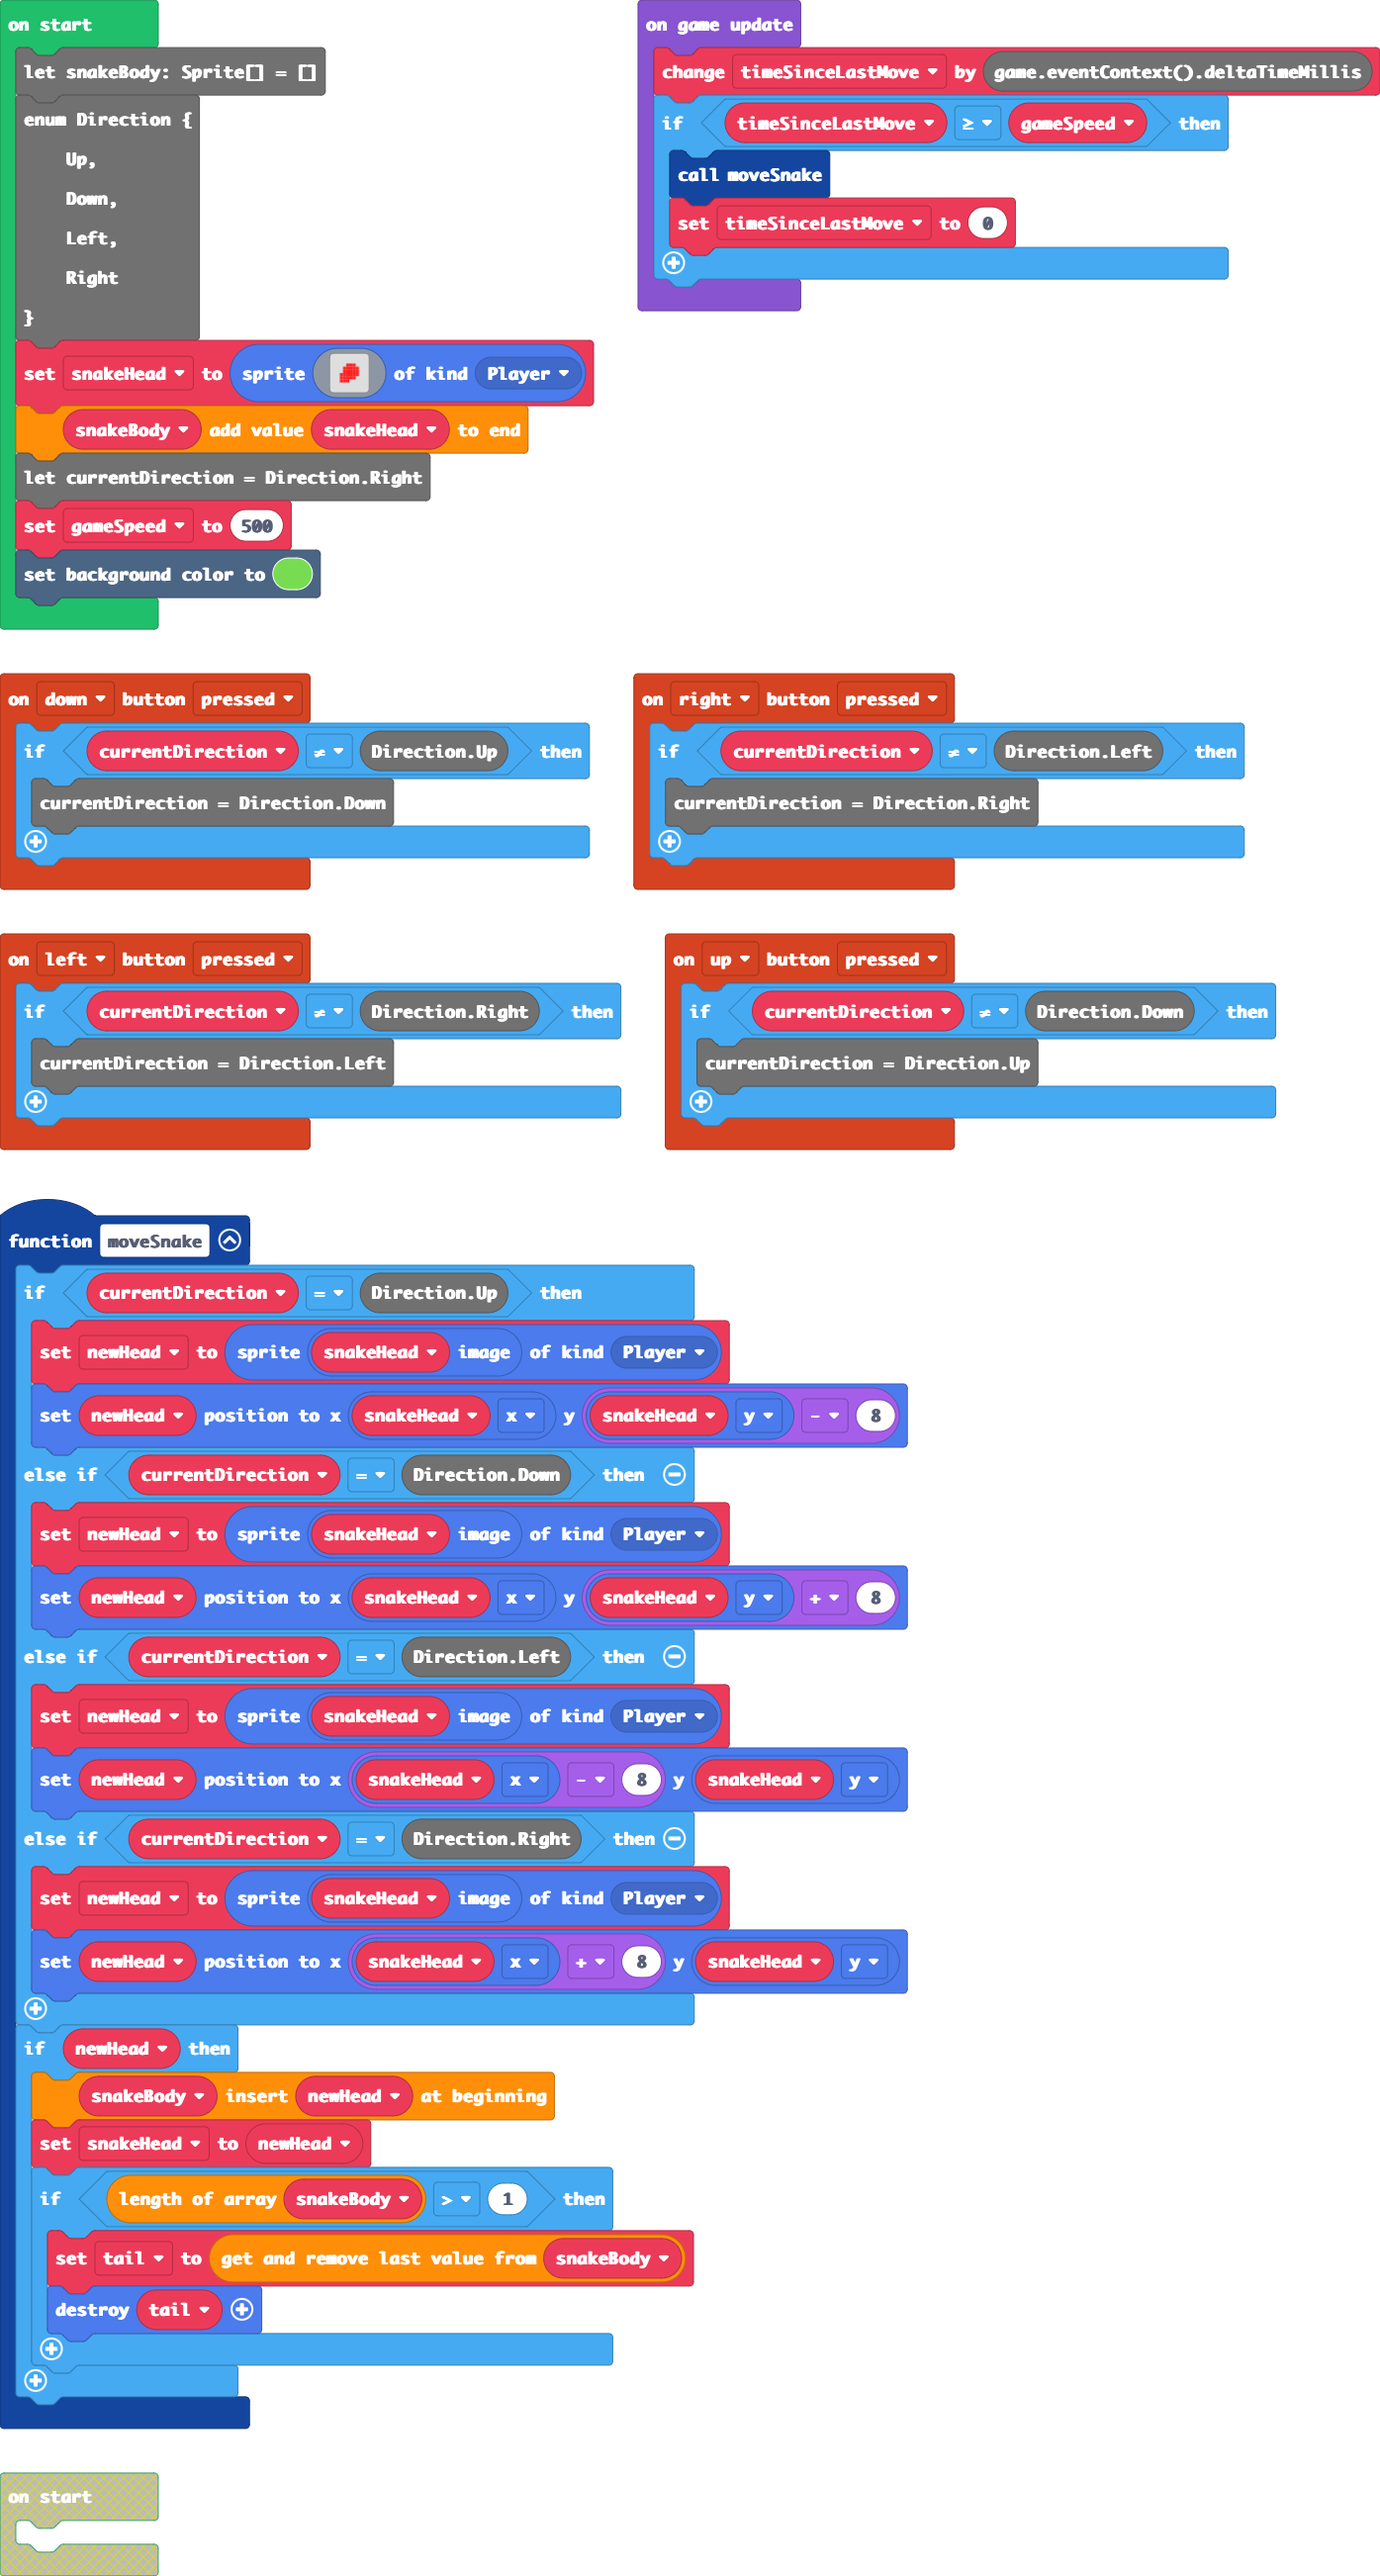
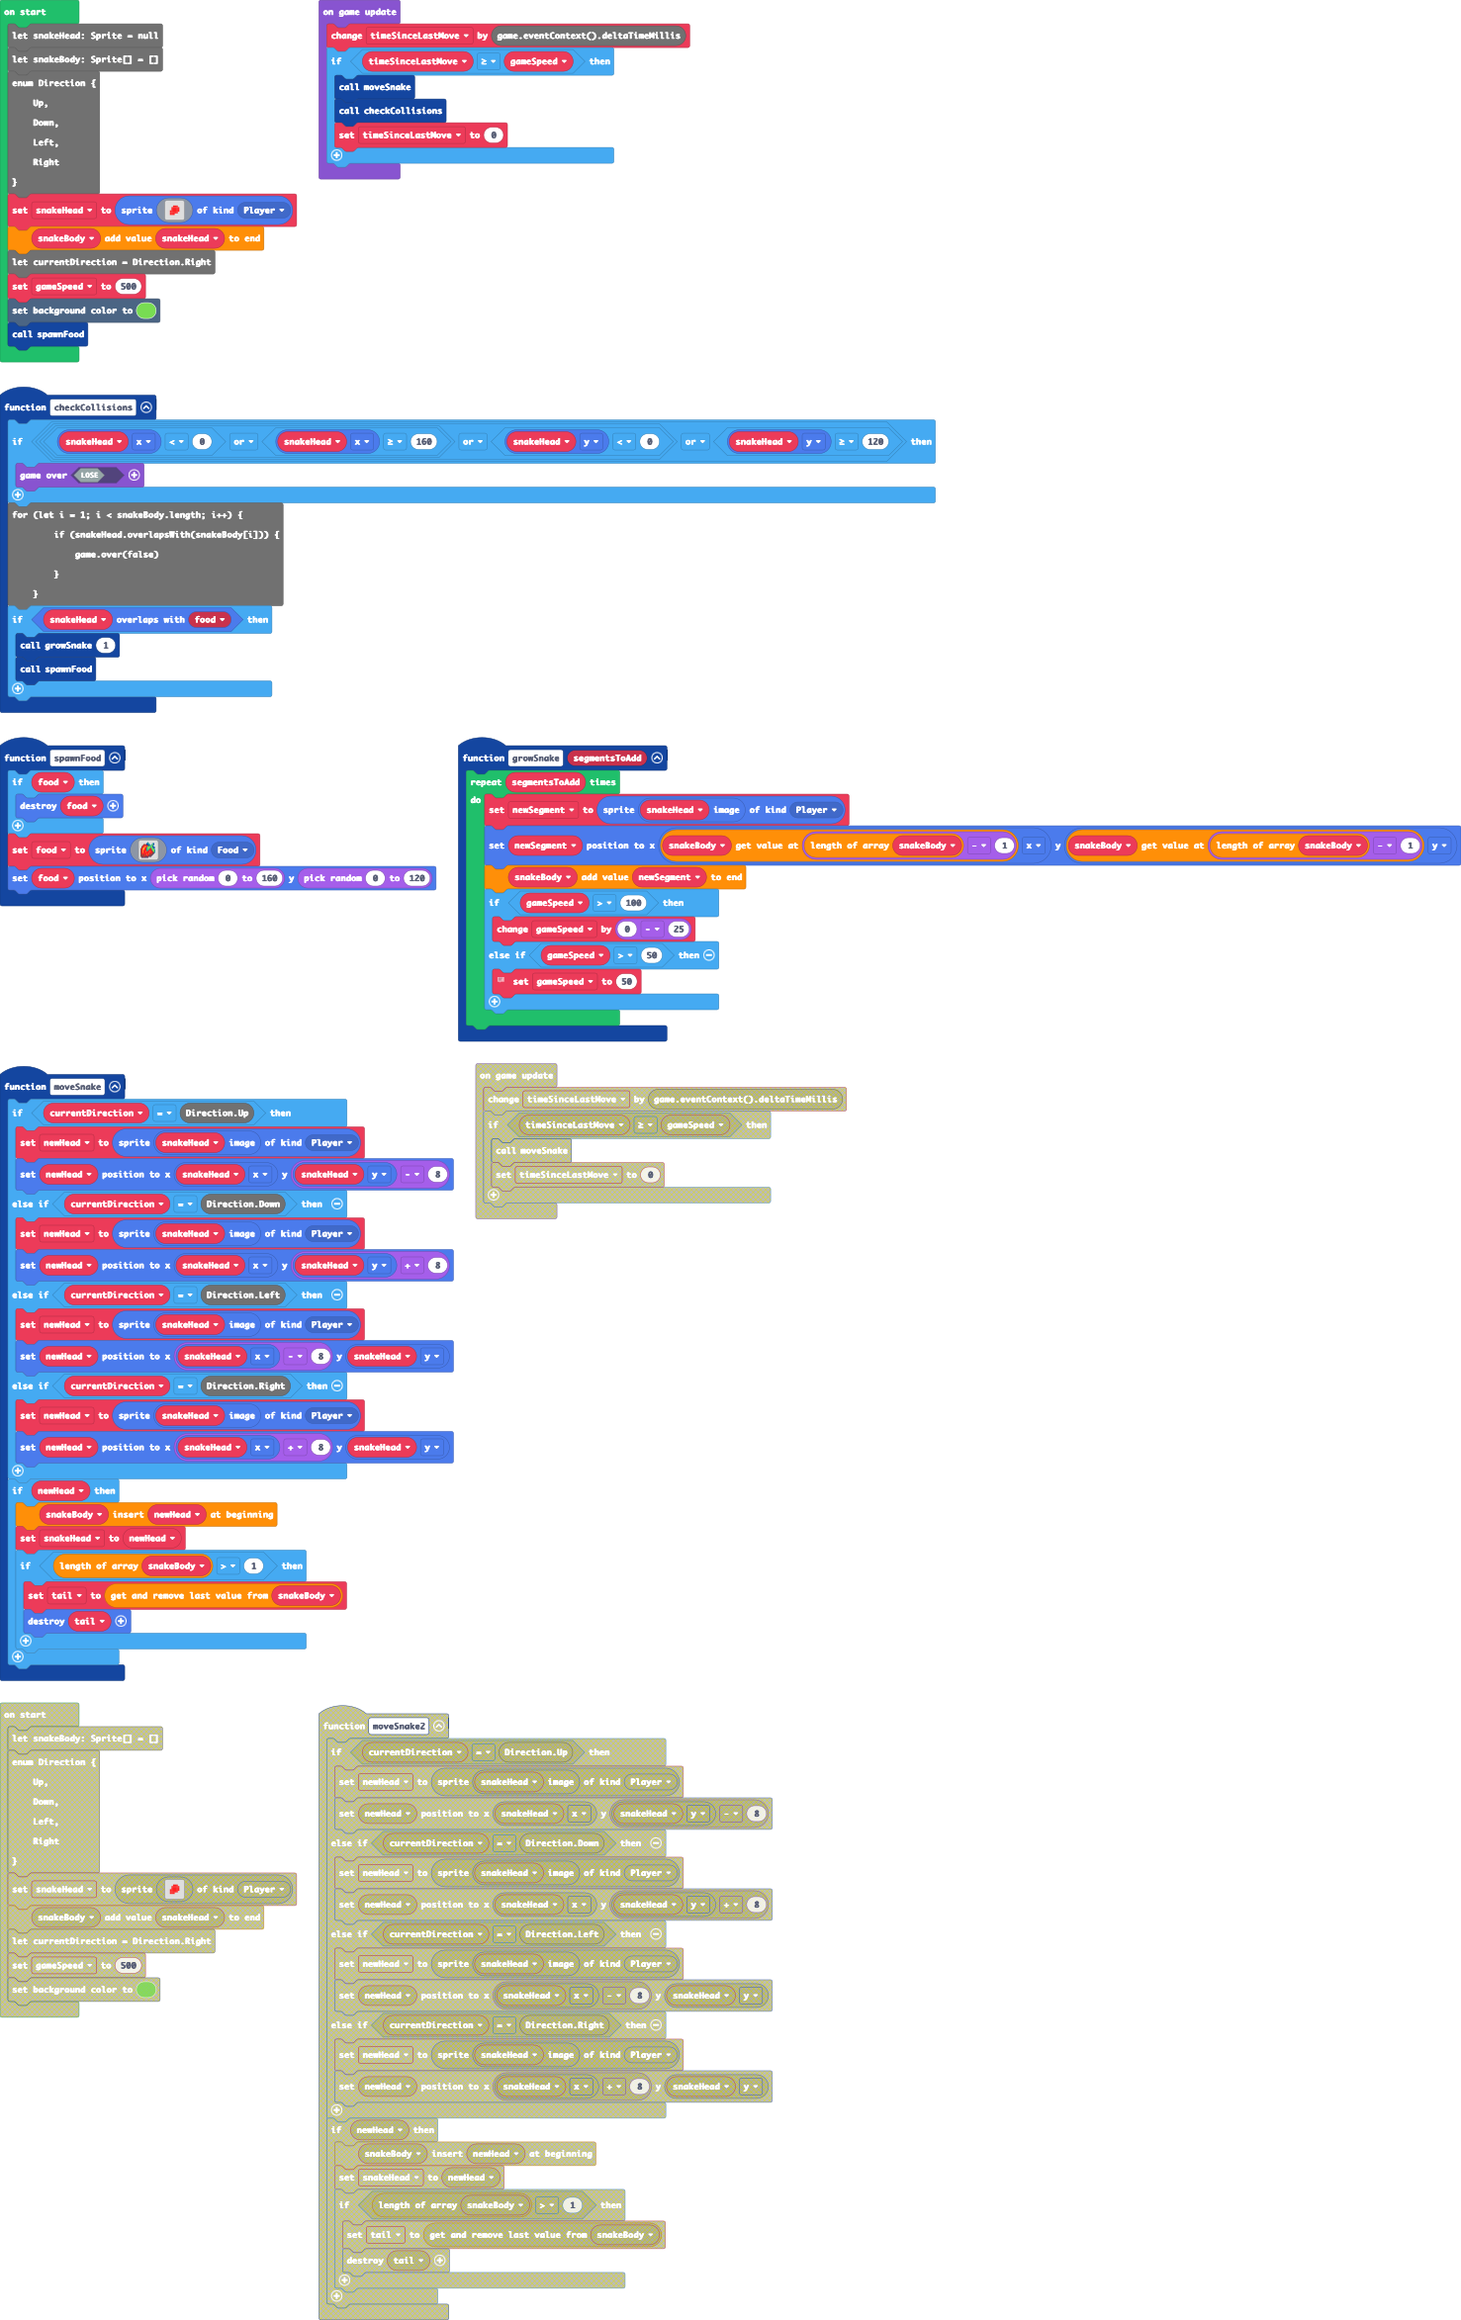
final project

diff --git a/main.ts b/main.ts
@@ -3,11 +3,62 @@ controller.up.onEvent(ControllerButtonEvent.Pressed, function () {
         currentDirection = Direction.Up
     }
 })
+function checkCollisions () {
+    if (snakeHead.x < 0 || snakeHead.x >= 160 || snakeHead.y < 0 || snakeHead.y >= 120) {
+        game.over(false)
+    }
+    for (let i = 1; i < snakeBody.length; i++) {
+        if (snakeHead.overlapsWith(snakeBody[i])) {
+            game.over(false)
+        }
+    }
+if (snakeHead.overlapsWith(food)) {
+        growSnake(1)
+        spawnFood()
+    }
+}
+function spawnFood () {
+    if (food) {
+        food.destroy()
+    }
+    food = sprites.create(img`
+        . . . . . . . 6 . . . . . . . . 
+        . . . . . . 8 6 6 . . . 6 8 . . 
+        . . . e e e 8 8 6 6 . 6 7 8 . . 
+        . . e 2 2 2 2 e 8 6 6 7 6 . . . 
+        . e 2 2 4 4 2 7 7 7 7 7 8 6 . . 
+        . e 2 4 4 2 6 7 7 7 6 7 6 8 8 . 
+        e 2 4 5 2 2 6 7 7 6 2 7 7 6 . . 
+        e 2 4 4 2 2 6 7 6 2 2 6 7 7 6 . 
+        e 2 4 2 2 2 6 6 2 2 2 e 7 7 6 . 
+        e 2 4 2 2 4 2 2 2 4 2 2 e 7 6 . 
+        e 2 4 2 2 2 2 2 2 2 2 2 e c 6 . 
+        e 2 2 2 2 2 2 2 4 e 2 e e c . . 
+        e e 2 e 2 2 4 2 2 e e e c . . . 
+        e e e e 2 e 2 2 e e e c . . . . 
+        e e e 2 e e c e c c c . . . . . 
+        . c c c c c c c . . . . . . . . 
+        `, SpriteKind.Food)
+    food.setPosition(Math.randomRange(0, 160), Math.randomRange(0, 120))
+}
 controller.left.onEvent(ControllerButtonEvent.Pressed, function () {
     if (currentDirection != Direction.Right) {
         currentDirection = Direction.Left
     }
 })
+function growSnake (segmentsToAdd: number) {
+    for (let index = 0; index < segmentsToAdd; index++) {
+        newSegment = sprites.create(snakeHead.image, SpriteKind.Player)
+        newSegment.setPosition(snakeBody[snakeBody.length - 1].x, snakeBody[snakeBody.length - 1].y)
+        snakeBody.push(newSegment)
+        if (gameSpeed > 100) {
+            gameSpeed += 0 - 25
+        } else if (gameSpeed > 50) {
+            // Ensure that game speed doesn't go below 50
+            gameSpeed = 50
+        }
+    }
+}
 controller.right.onEvent(ControllerButtonEvent.Pressed, function () {
     if (currentDirection != Direction.Left) {
         currentDirection = Direction.Right
@@ -44,6 +95,9 @@ controller.down.onEvent(ControllerButtonEvent.Pressed, function () {
 let timeSinceLastMove = 0
 let tail: Sprite = null
 let newHead: Sprite = null
+let newSegment: Sprite = null
+let food: Sprite = null
+let gameSpeed = 0
 let snakeHead: Sprite = null
 let snakeBody: Sprite[] = []
 enum Direction {
@@ -66,12 +120,14 @@ snakeHead = sprites.create(img`
     `, SpriteKind.Player)
 snakeBody.push(snakeHead)
 let currentDirection = Direction.Right
-let gameSpeed = 500
+gameSpeed = 500
 scene.setBackgroundColor(7)
+spawnFood()
 game.onUpdate(function () {
     timeSinceLastMove += game.eventContext().deltaTimeMillis
     if (timeSinceLastMove >= gameSpeed) {
         moveSnake()
+        checkCollisions()
         timeSinceLastMove = 0
     }
 })
